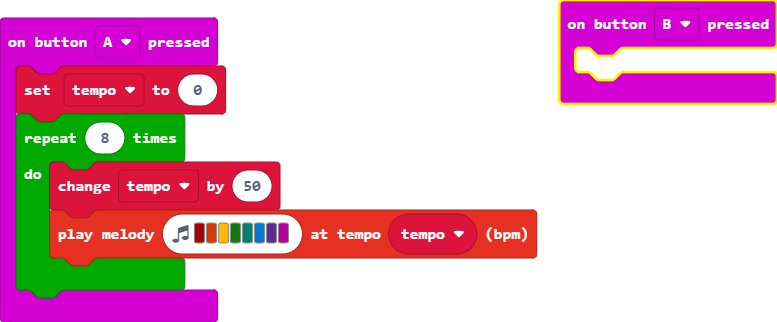
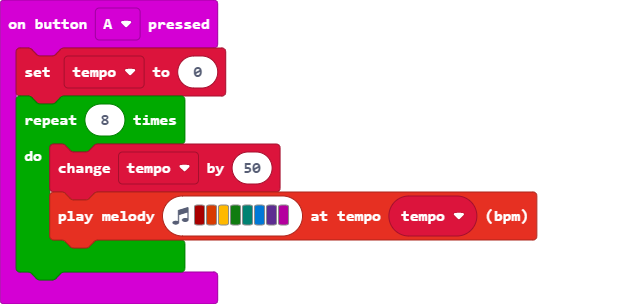
Update main.blocks, main.ts

diff --git a/main.ts b/main.ts
@@ -6,6 +6,3 @@ input.onButtonPressed(Button.A, function () {
         music.playMelody("C5 B A G F E D C ", tempo)
     }
 })
-input.onButtonPressed(Button.B, function () {
-	
-})
